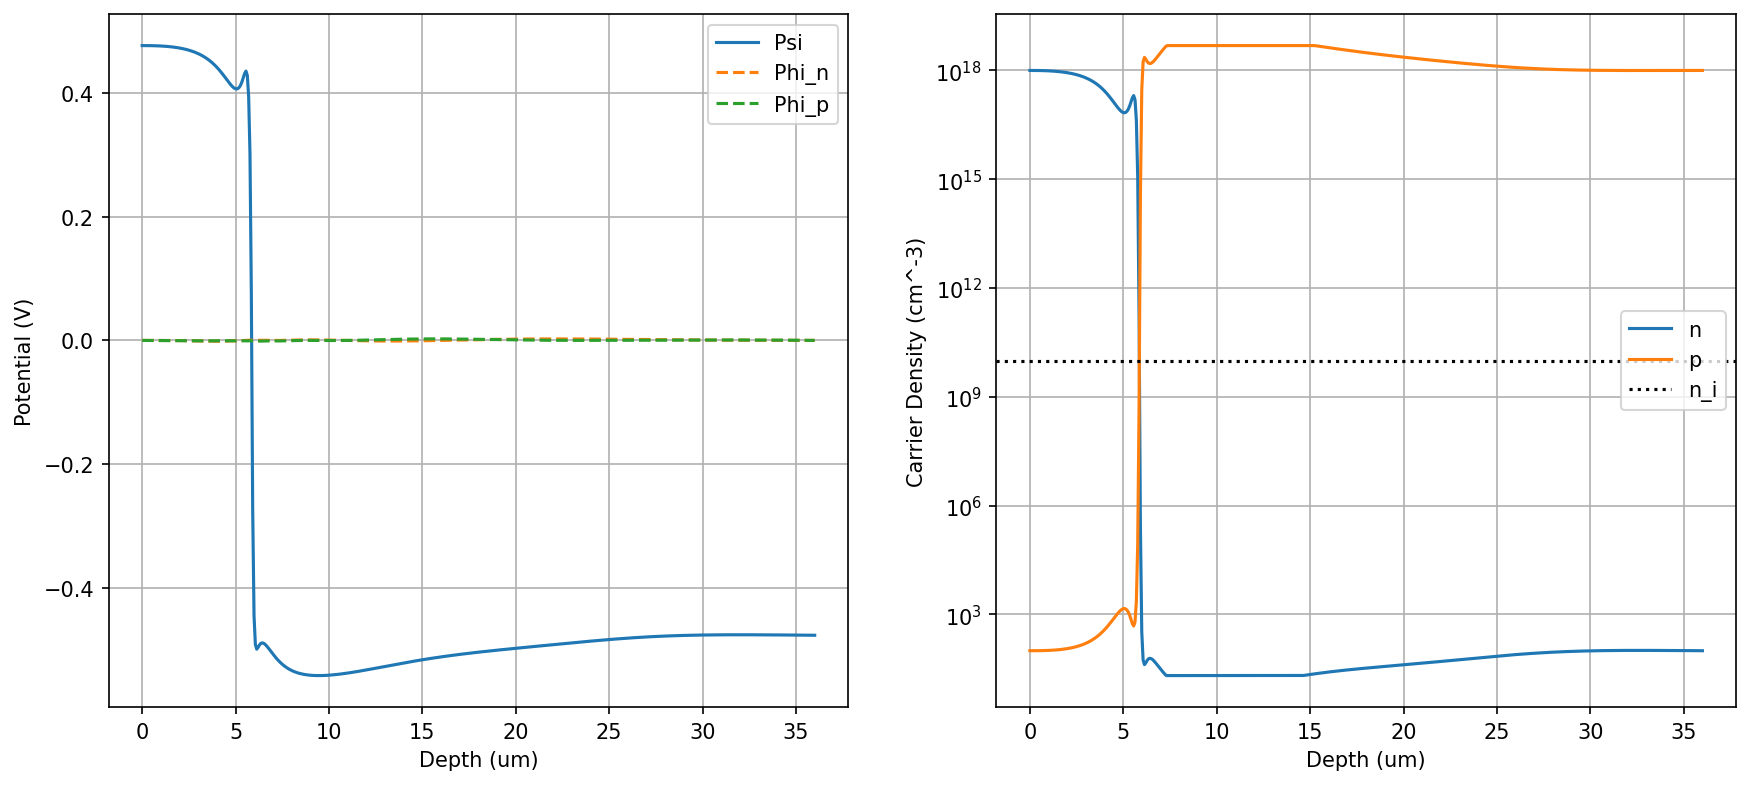
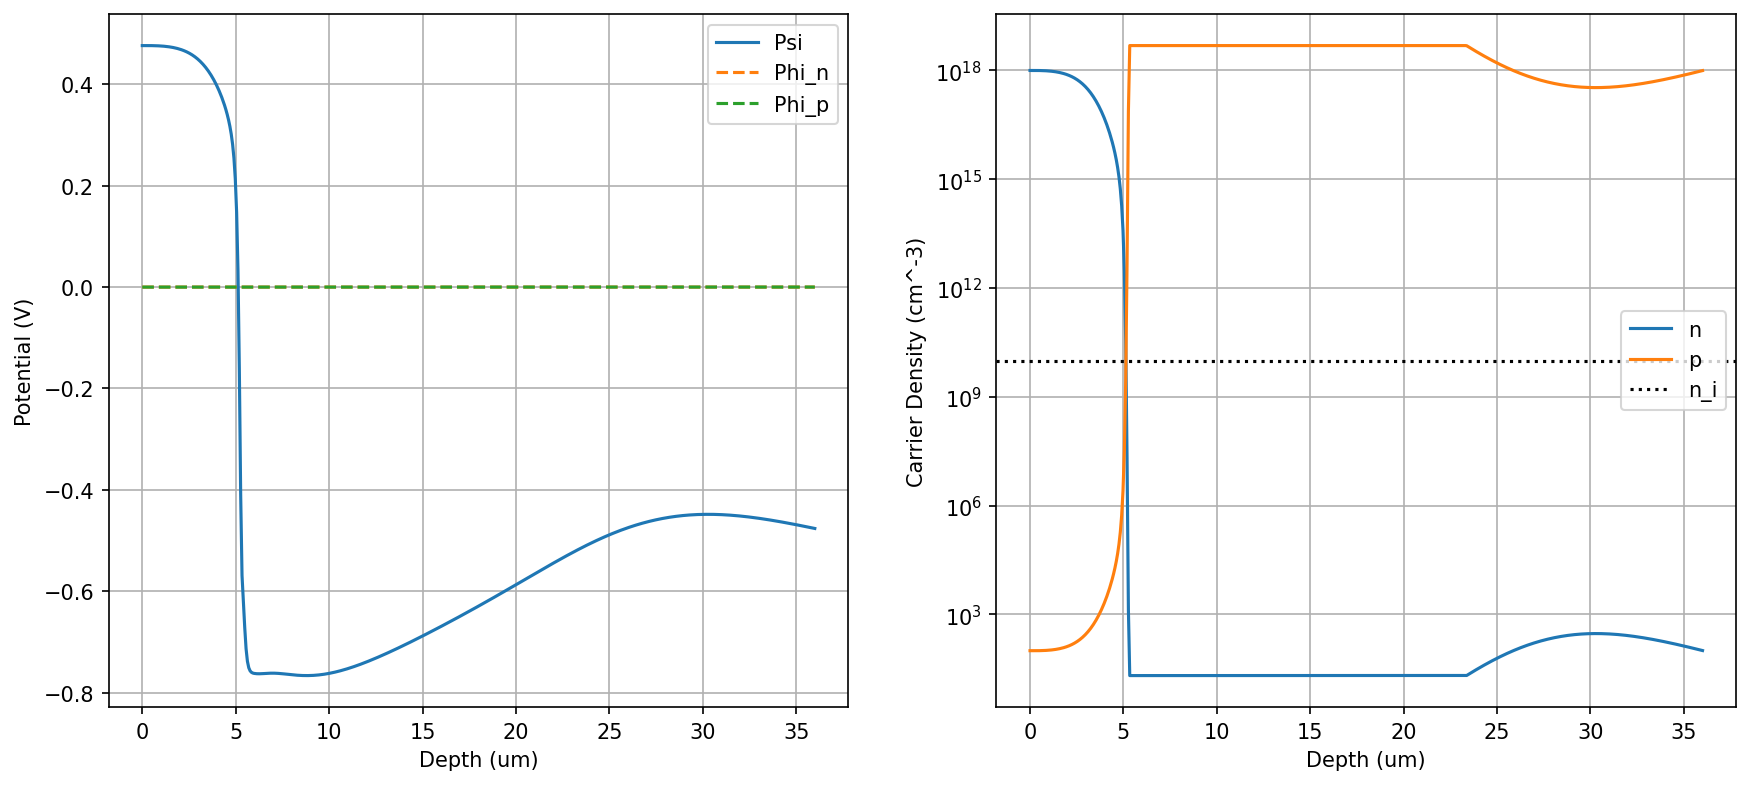
hmm

diff --git a/diode_deepx/sim_diode.py b/diode_deepx/sim_diode.py
@@ -6,6 +6,8 @@ import time
 import torch
 
 # HACK: Overwrite the MPS availability check to return False.
+# This "hides" the Apple Silicon GPU from DeepXDE, forcing it to choose CPU.
+# This prevents driver bugs associated with high-order derivatives on Mac.
 try:
     torch.backends.mps.is_available = lambda: False
     print("✓ Patched torch.backends.mps.is_available to False (Forcing CPU)")
@@ -62,10 +64,13 @@ class Scaling:
     L_scale = 1e-4  # 1 micron = 1e-4 cm
     N_ref = 1e18
     
+    # Poisson Scale: q*N / eps ~ 1e11
     scale_poisson = (PhysicsConstants.q * N_ref) / PhysicsConstants.epsilon
     
-    # Dynamic Transport Scale (~1e29)
-    _transport_mag = PhysicsConstants.mu_n * PhysicsConstants.V_t * N_ref / (L_scale**2)
+    # Continuity Scale (Dynamic Calculation):
+    # Transport term magnitude ~ mu * Vt * N / L^2 ~ 1e29
+    # We calculate this dynamically to avoid "magic numbers"
+    _transport_mag = PhysicsConstants.mu_n * 1.0 * N_ref / (L_scale**2)
     scale_continuity = _transport_mag 
     
     @staticmethod
@@ -120,7 +125,9 @@ class PhotodiodePhysics:
         
         limit = 20.0
         
-        # FIX: Always use network outputs for Quasi-Fermi levels
+        # ALWAYS use network predicted levels.
+        # We do NOT override them with zeros manually anymore (Fixing the "bump").
+        # Instead, we use the loss function to force them to zero in equilibrium.
         phi_n_phys = phi_n
         phi_p_phys = phi_p
 
@@ -137,20 +144,21 @@ class PhotodiodePhysics:
         
         res_poisson = (PhysicsConstants.epsilon * lap_psi + rho) / Scaling.scale_poisson
 
-        # Symmetry Regularization (Soft guide for 1D bulk behavior)
-        res_symmetry = grad_psi_x * 0.1 
+        # Symmetry Regularization (Weight 1.0 helps flatten slanted 2D contours)
+        res_symmetry = grad_psi_x * 1.0 
 
-        # --- Equilibrium Mode: Gradient Penalty Strategy ---
+        # --- Equilibrium Mode: Strict Penalty Strategy ---
         if self.equilibrium_mode:
-            # Force flat Quasi-Fermi levels (Zero Current condition)
+            # At equilibrium (0V, Dark), current is zero (grad phi = 0) AND potential is flat (phi = 0)
             grad_phin_x = dde.grad.jacobian(phi_n, x, i=0, j=0)
             grad_phin_y = dde.grad.jacobian(phi_n, x, i=0, j=1)
             grad_phip_x = dde.grad.jacobian(phi_p, x, i=0, j=0)
             grad_phip_y = dde.grad.jacobian(phi_p, x, i=0, j=1)
             
-            # Strong penalty for any gradient
-            res_electron = (grad_phin_x**2 + grad_phin_y**2) * 1e3
-            res_hole = (grad_phip_x**2 + grad_phip_y**2) * 1e3
+            # CRITICAL FIX: Added (phi**2) term. This forces the value to 0, not just the slope.
+            # High weight (1e6) ensures the network prioritizes this physical fact.
+            res_electron = (grad_phin_x**2 + grad_phin_y**2 + phi_n**2) * 1e6
+            res_hole = (grad_phip_x**2 + grad_phip_y**2 + phi_p**2) * 1e6
             
             return [res_poisson, res_electron, res_hole, res_symmetry]
         
@@ -186,12 +194,12 @@ class PhotodiodePhysics:
     def get_boundary_conditions(self):
         geom = dde.geometry.Rectangle([0, 0], [DeviceGeometry.width_um, DeviceGeometry.y_total_um])
         
+        # Cathode (Top, n-type)
         def on_cathode(x, on_boundary):
             return on_boundary and np.isclose(x[1], 0) and \
                    (x[0] >= DeviceGeometry.cathode_x_range[0]) and \
                    (x[0] <= DeviceGeometry.cathode_x_range[1])
 
-        # BCs must match physical conditions
         val_psi_cat = self.psi_n_eq + self.V_bias
         val_phi_cat = self.V_bias
         
@@ -199,6 +207,7 @@ class PhotodiodePhysics:
         bc_phin_c = dde.icbc.DirichletBC(geom, lambda x: val_phi_cat, on_cathode, component=1)
         bc_phip_c = dde.icbc.DirichletBC(geom, lambda x: val_phi_cat, on_cathode, component=2)
         
+        # Anode (Bottom, p-type)
         def on_anode(x, on_boundary):
             return on_boundary and np.isclose(x[1], DeviceGeometry.y_total_um)
             
@@ -209,7 +218,7 @@ class PhotodiodePhysics:
         bc_phin_a = dde.icbc.DirichletBC(geom, lambda x: val_phi_anode, on_anode, component=1)
         bc_phip_a = dde.icbc.DirichletBC(geom, lambda x: val_phi_anode, on_anode, component=2)
         
-        # Insulation (Neumann BCs)
+        # Insulation (Neumann BCs) - Essential for 2D
         def on_insulator(x, on_boundary):
             is_left = np.isclose(x[0], 0)
             is_right = np.isclose(x[0], DeviceGeometry.width_um)
@@ -241,7 +250,6 @@ def analytical_guess(x_numpy, V_bias=0.0):
     psi_guess = (psi_n + V_bias) * (1 - sig_1) + psi_p * (sig_1 * (1 - sig_2)) + psi_pp * sig_2
     
     # Quasi-Fermi guess: Smooth transition from V_bias (cathode) to 0 (anode)
-    # If V_bias=0, this naturally gives 0 everywhere.
     phi_n_guess = V_bias * (1 - sig_1 * 0.5) 
     phi_p_guess = V_bias * (sig_2 * 0.5)
     
@@ -249,6 +257,7 @@ def analytical_guess(x_numpy, V_bias=0.0):
 
 # --- 7. MODEL FACTORY ---
 def create_model(V_bias, optical_params=None, initial_weights=None):
+    # Trigger equilibrium mode for Dark 0V only
     is_dark = (optical_params is None)
     eq_mode = (V_bias == 0.0 and is_dark)
     
@@ -256,6 +265,7 @@ def create_model(V_bias, optical_params=None, initial_weights=None):
     bcs = physics.get_boundary_conditions()
     geom = dde.geometry.Rectangle([0, 0], [DeviceGeometry.width_um, DeviceGeometry.y_total_um])
     
+    # FIX: Increased sampling density to 8000 to fix 2D plot "banding" artifacts
     def junction_sampler(n_points):
         x = np.random.uniform(0, DeviceGeometry.width_um, n_points)
         n_uni = int(0.4 * n_points)
@@ -269,7 +279,7 @@ def create_model(V_bias, optical_params=None, initial_weights=None):
         return np.column_stack((x, y)).astype(np.float32)
 
     data = dde.data.PDE(
-        geom, physics.pde, bcs, num_domain=0, num_boundary=400, anchors=junction_sampler(3000)
+        geom, physics.pde, bcs, num_domain=0, num_boundary=400, anchors=junction_sampler(8000)
     )
     
     def feature_transform(x):
@@ -308,9 +318,12 @@ def pretrain_analytical(model, V_bias, iters=5000):
     logger.info(">>> Pre-training complete.")
 
 def train_physics(model, adam_iters=10000, bfgs=True):
+    # Weights: [Poisson, Elec, Hole, Symmetry] + [BCs...]
     loss_weights = [100.0, 1.0, 1.0, 1.0] + [50.0]*9
+    
     model.compile("adam", lr=1e-3, loss_weights=loss_weights)
     model.train(iterations=adam_iters, display_every=1000)
+    
     if bfgs:
         logger.info("   >>> Refining with L-BFGS...")
         model.compile("L-BFGS", loss_weights=loss_weights)
@@ -320,18 +333,14 @@ def train_physics(model, adam_iters=10000, bfgs=True):
 def verify_solution_quality(model, V_bias, label):
     logger.info(f"--- Verifying {label} solution at {V_bias}V ---")
     
-    # Calculate target potentials
     psi_n_eq = PhysicsConstants.V_t * np.log(DeviceGeometry.N_D_cathode / PhysicsConstants.n_i)
     psi_p_eq = -PhysicsConstants.V_t * np.log(DeviceGeometry.N_A_anode / PhysicsConstants.n_i)
     
     target_psi_cat = psi_n_eq + V_bias
     target_psi_ano = psi_p_eq
-    
-    # Targets for Quasi-Fermi
     target_phi_cat = V_bias
     target_phi_ano = 0.0
     
-    # Sample points
     cat_pt = np.array([[50.0, 0.001]]).astype(np.float32)
     ano_pt = np.array([[50.0, DeviceGeometry.y_total_um - 0.001]]).astype(np.float32)
     
@@ -463,7 +472,8 @@ def run_simulation():
     Scaling.log_scales()
     
     dark_weights_db = {} 
-    voltages = [0.0, -0.5, -1.0]
+    # FIX: Changed voltages to POSITIVE to simulate REVERSE BIAS on the Cathode (N-type)
+    voltages = [0.0, 0.5, 1.0]
     
     # === STEP 1: DARK SIMULATION ===
     logger.info("=== STEP 1: DARK CURRENT SIMULATION ===")
@@ -474,12 +484,10 @@ def run_simulation():
         logger.info(f"\n--- Solving Dark Condition: V_bias = {v} V ---")
         model = create_model(v, optical_params=None, initial_weights=last_weights)
         
-        # Improved Pre-training
         if i == 0: pretrain_analytical(model, v, iters=5000)
         
         train_physics(model, adam_iters=5000 if i==0 else 8000, bfgs=True)
         
-        # Verification Step
         verify_solution_quality(model, v, "Dark")
         
         I_dark = calculate_current(model)
